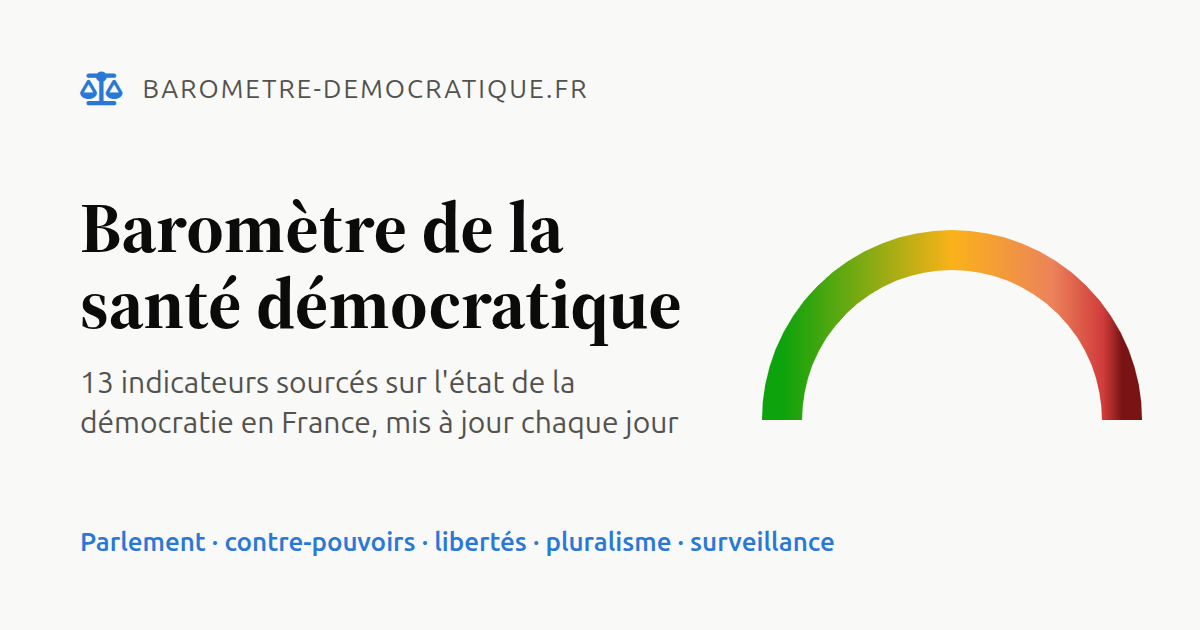
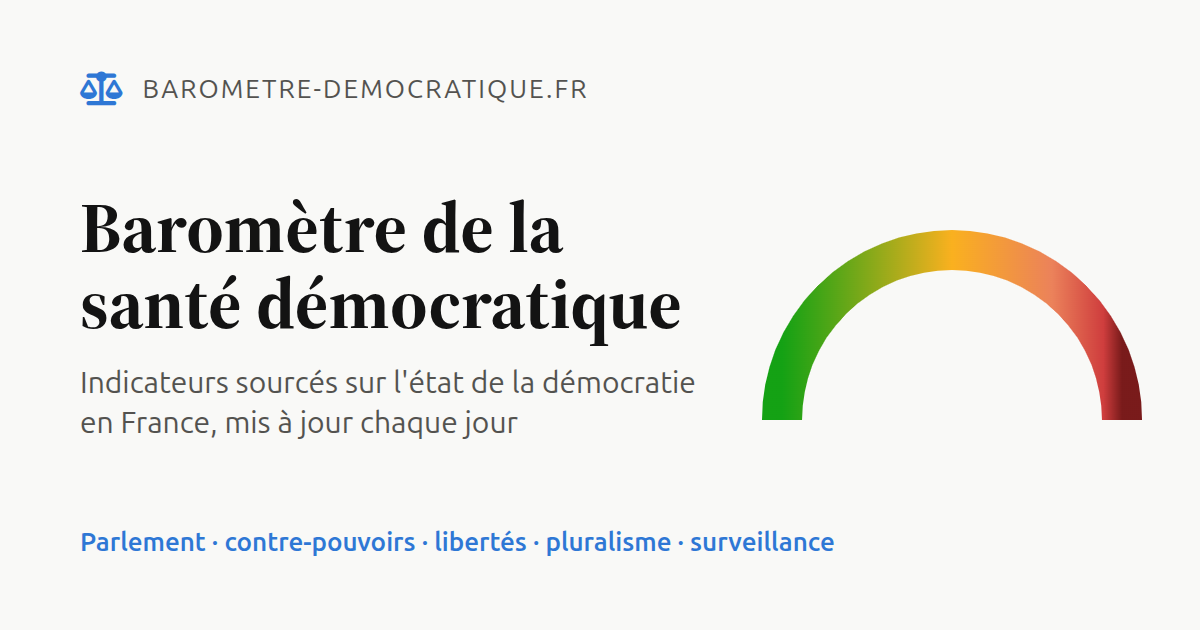
Site : nombre d'indicateurs calculé, même règle « hors indice » partout
- seo.py : nombre d'indicateurs tiré des données (titre, description,
  résumé, llms.txt) ; dans_indice suit aussi `hors_indice` comme la page
  (D7 était compté dans l'indice des textes générés) ; données
  structurées sans plantage pour un indicateur hors indice sans date de
  fin de relevé.
- Page et image de partage : plus de « 13 indicateurs » écrit en dur.

Changed region(s): [[0.0617, 0.573, 0.5858, 0.6333], [0.0617, 0.6635, 0.555, 0.6937]]

diff --git a/front/prototype/index.html b/front/prototype/index.html
@@ -189,7 +189,7 @@
         <i class="fa-solid fa-scale-balanced mt-0.5 text-muted" aria-hidden="true"></i>
         <span><strong class="text-ink">Ce n'est pas une note.</strong> Chaque repère situe la valeur des
         douze derniers mois parmi tous les mois observés depuis le début de la série de cet
-        indicateur&nbsp;; pour les 13 indicateurs de la grille, une valeur plus haute correspond à une
+        indicateur&nbsp;; pour tous les indicateurs de la grille, une valeur plus haute correspond à une
         situation que la grille tient pour plus défavorable (pour le classement RSF, un rang plus
         élevé). Aucune pondération, aucun seuil&nbsp;: le comité de méthode ne les a pas encore fixés.
         Les déclarations de l'ONU, la presse étrangère et le temps de parole par parti sont des

diff --git a/front/publication/apercu.html b/front/publication/apercu.html
@@ -14,7 +14,7 @@ p{font-size:30px;line-height:1.35;color:#52514e;margin:22px 0 0;max-width:640px}
 svg{position:absolute;right:48px;top:200px}
 </style></head><body>
 <div class="haut"><i class="fa-solid fa-scale-balanced"></i>barometre-democratique.fr</div>
-<div><h1>Baromètre de la santé démocratique</h1><p>13 indicateurs sourcés sur l'état de la démocratie en France, mis à jour chaque jour</p></div>
+<div><h1>Baromètre de la santé démocratique</h1><p>Indicateurs sourcés sur l'état de la démocratie en France, mis à jour chaque jour</p></div>
 <div class="bas">Parlement · contre-pouvoirs · libertés · pluralisme · surveillance</div>
 <svg width="400" height="250" viewBox="0 0 400 250" aria-hidden="true">
 <defs><linearGradient id="g" gradientUnits="userSpaceOnUse" x1="30" y1="0" x2="370" y2="0">

diff --git a/front/publication/seo.py b/front/publication/seo.py
@@ -4,11 +4,11 @@ les moteurs de recherche (SEO) et pour les assistants d'IA (GEO).
 La page du prototype construit tout son contenu chiffré en JavaScript ; un robot qui ne
 l'exécute pas ne verrait aucun chiffre. On écrit donc dans le HTML, avant publication :
   - le titre, la description, les balises Open Graph et une description schema.org (Dataset) ;
-  - l'indice illustratif, sa phrase d'explication et la vue d'ensemble des 13 indicateurs
+  - l'indice illustratif, sa phrase d'explication et la vue d'ensemble des indicateurs
     (le JavaScript remplace ces contenus au chargement, avec les mêmes chiffres).
 Et on écrit à côté de la page :
   - `barometre.md` : résumé en texte simple, chaque chiffre avec sa source ;
-  - `indicateurs.csv` : les 13 indicateurs, valeur actuelle et position dans leur historique ;
+  - `indicateurs.csv` : les indicateurs, valeur actuelle et position dans leur historique ;
   - `llms.txt` : point d'entrée pour les assistants d'IA (format llmstxt.org) ;
   - `robots.txt`, et `sitemap.xml` si l'adresse du site est connue (`SITE_URL`) ;
   - `.htaccess` (Apache, hébergement mutualisé) : fichiers texte servis en UTF-8 et, si
@@ -103,8 +103,20 @@ def position(d: dict) -> float:
 
 
 def dans_indice(d: dict) -> bool:
-    """Un indicateur dont le relevé est arrêté (`fin_couverture`) n'entre pas dans l'indice."""
-    return not d.get("fin_couverture")
+    """Hors indice : relevé arrêté (`fin_couverture`) ou raison explicite (`hors_indice`, par
+    exemple D7 pendant la reprise du passé). Même règle que la page (index.html)."""
+    return not d.get("fin_couverture") and not d.get("hors_indice")
+
+
+NOMBRES = {13: "Treize", 14: "Quatorze", 15: "Quinze", 16: "Seize", 17: "Dix-sept", 18: "Dix-huit"}
+
+
+def nb_indicateurs(data: dict) -> int:
+    return len(data["dimensions"])
+
+
+def en_toutes_lettres(n: int) -> str:
+    return NOMBRES.get(n, str(n))
 
 
 def indice(dimensions: list[dict]) -> int:
@@ -151,6 +163,7 @@ def lignes(data: dict) -> list[dict]:
                 "valeur": valeur(d),
                 "valeur_brute": d["actuel"],
                 "fin_couverture": d.get("fin_couverture") or "",
+                "hors_indice": d.get("hors_indice") or "",
                 "position": round(100 * position(d)),
                 "dans_indice": dans_indice(d),
                 "mois_observes": len(d["mensuel"]),
@@ -167,7 +180,10 @@ def phrase_exclus(data: dict) -> str:
     if not hors:
         return ""
     noms = ", ".join(
-        f"{r['code']} (relevé arrêté au {date_longue(r['fin_couverture'])})" for r in hors
+        f"{r['code']} ("
+        + (r["hors_indice"] or f"relevé arrêté au {date_longue(r['fin_couverture'])}")
+        + ")"
+        for r in hors
     )
     return f" {noms} {'ne sont pas comptés' if len(hors) > 1 else 'n’est pas compté'}."
 
@@ -176,7 +192,8 @@ def description(data: dict) -> str:
     score = indice(data["dimensions"])
     jour = date_longue(data["fin_donnees"])
     return (
-        "13 indicateurs sourcés sur l'état de la démocratie en France (Parlement, "
+        f"{nb_indicateurs(data)} indicateurs sourcés sur l'état de la démocratie en France "
+        "(Parlement, "
         "contre-pouvoirs, libertés, pluralisme, surveillance, élections), recalculés "
         "chaque jour depuis les données officielles. "
         f"Indice illustratif au {jour} : {score} sur 100 (50 = niveau habituel)."
@@ -212,7 +229,8 @@ def json_ld(data: dict, site_url: str | None) -> str:
                 "description": (
                     f"Position {r['position']} sur 100 dans son historique (depuis {r['depuis']})"
                     if r["dans_indice"]
-                    else f"Hors indice : relevé arrêté au {date_longue(r['fin_couverture'])}"
+                    else "Hors indice : "
+                    + (r["hors_indice"] or f"relevé arrêté au {date_longue(r['fin_couverture'])}")
                 ),
             }
             for r in rows
@@ -240,7 +258,7 @@ def json_ld(data: dict, site_url: str | None) -> str:
 
 def entete(data: dict, site_url: str | None) -> str:
     desc = html.escape(description(data), quote=True)
-    titre = html.escape(f"{TITRE} — 13 indicateurs sourcés", quote=True)
+    titre = html.escape(f"{TITRE} — {nb_indicateurs(data)} indicateurs sourcés", quote=True)
     tags = [
         f'<meta name="description" content="{desc}">',
         '<meta name="robots" content="index, follow">',
@@ -293,7 +311,7 @@ def vue_statique(data: dict) -> tuple[str, str, str]:
 def appliquer(page: str, data: dict, site_url: str | None) -> str:
     page = re.sub(
         r"<title>.*?</title>",
-        f"<title>{html.escape(TITRE)} — 13 indicateurs sourcés</title>",
+        f"<title>{html.escape(TITRE)} — {nb_indicateurs(data)} indicateurs sourcés</title>",
         page,
         count=1,
         flags=re.S,
@@ -334,7 +352,7 @@ def resume_md(data: dict, site_url: str | None) -> str:
         "pour plus défavorable. Cet indice aide à lire l'ensemble ; "
         "il ne qualifie pas le régime.\n\n"
     )
-    w("## Les 13 indicateurs\n\n")
+    w(f"## Les {nb_indicateurs(data)} indicateurs\n\n")
     w("| Code | Indicateur | Valeur actuelle | Position (sur 100) | Série depuis |\n")
     w("| --- | --- | --- | --- | --- |\n")
     for r in lignes(data):
@@ -390,7 +408,8 @@ def llms_txt(data: dict, site_url: str | None) -> str:
     score = indice(data["dimensions"])
     return (
         f"# {TITRE}\n\n"
-        f"> Treize indicateurs sourcés sur l'état de la démocratie en France, recalculés chaque "
+        f"> {en_toutes_lettres(nb_indicateurs(data))} indicateurs sourcés sur l'état de la "
+        "démocratie en France, recalculés chaque "
         f"jour depuis les données officielles (Assemblée nationale, Journal officiel, Conseil "
         f"constitutionnel, CNIL, justice administrative, Arcom, RSF, CNCTR). Prototype : aucun "
         f"seuil ni aucune pondération n'est encore fixé ; l'indice affiché ({score} sur 100 au "
@@ -398,7 +417,8 @@ def llms_txt(data: dict, site_url: str | None) -> str:
         "Pour citer un chiffre, reprendre sa date et sa source ; ne pas présenter l'indice "
         "illustratif comme une note officielle.\n\n"
         "## Données\n\n"
-        f"- [Résumé complet en texte]({base}barometre.md) : indice, 13 indicateurs, contexte, "
+        f"- [Résumé complet en texte]({base}barometre.md) : indice, {nb_indicateurs(data)} "
+        "indicateurs, contexte, "
         "méthode, sources\n"
         f"- [Indicateurs (CSV)]({base}indicateurs.csv) : valeur actuelle et position dans "
         "l'historique\n"
@@ -428,9 +448,7 @@ def sitemap_xml(site_url: str, lastmod: str) -> str:
 
 
 APERCU = "apercu.png"  # image de partage (1200 × 630), front/publication/apercu.png
-APERCU_ALT = (
-    "Baromètre de la santé démocratique : 13 indicateurs sourcés sur la démocratie en France"
-)
+APERCU_ALT = "Baromètre de la santé démocratique : indicateurs sourcés sur la démocratie en France"
 
 # Politique de sécurité du contenu : tout vient du site lui-même (scripts et styles en ligne
 # compris).

diff --git a/tests/test_seo.py b/tests/test_seo.py
@@ -105,3 +105,31 @@ def test_indicateur_au_releve_arrete_hors_indice():
     data = {**DATA, "dimensions": dims}
     _, texte, items = seo.vue_statique(data)
     assert "relevé arrêté au 31 décembre 2025" in texte and "hors indice" in items
+
+
+def test_indicateur_hors_indice_par_raison_explicite():
+    """D7 pendant la reprise : `hors_indice` porte la raison, comme sur la page."""
+    dims = [dict(d) for d in DATA["dimensions"]]
+    dims[1]["hors_indice"] = "reprise depuis juillet 2024 en cours de collecte"
+    assert seo.indice(dims) == round(100 * seo.position(dims[0]))
+    _, texte, items = seo.vue_statique({**DATA, "dimensions": dims})
+    assert "reprise depuis juillet 2024 en cours de collecte" in texte
+    assert "hors indice" in items
+
+
+def test_nombre_d_indicateurs_calcule():
+    data = {
+        **DATA,
+        "dimensions": [dict(d) for d in DATA["dimensions"]] * 7 + [DATA["dimensions"][0]],
+    }
+    assert seo.description(data).startswith("15 indicateurs sourcés")
+    assert "15 indicateurs sourcés" in seo.entete(data, None)
+    assert "Quinze indicateurs sourcés" in seo.llms_txt(data, None)
+    assert "## Les 15 indicateurs" in seo.resume_md(data, None)
+    assert "13 indicateurs" not in seo.appliquer(PAGE, data, None)
+
+
+def test_donnees_structurees_avec_raison_hors_indice():
+    dims = [dict(d) for d in DATA["dimensions"]]
+    dims[1]["hors_indice"] = "reprise en cours"
+    assert "Hors indice : reprise en cours" in seo.json_ld({**DATA, "dimensions": dims}, None)
